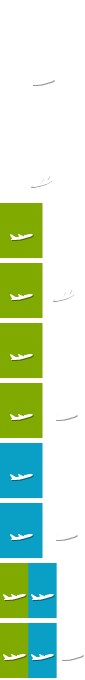
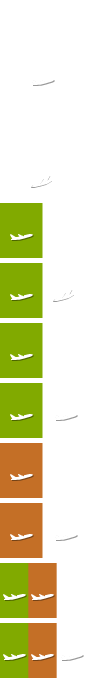
Сложный маршрут в выдаче и календаре

Changed region(s): [[0.0, 0.6485, 0.6824, 1.0]]

diff --git a/public/js/search.js b/public/js/search.js
@@ -4,7 +4,7 @@ init: function() {
 
     /* Режим (по умолчанию туда и обратно) */
     this.mode = 'rt';
-    $('#search-fields .sicon').click(function() {
+    $('#search-fields .segment1 .sicon').click(function() {
         self.toggleMode();
     });
     $('#search-mode li').click(function() {
@@ -170,23 +170,18 @@ init: function() {
 toggleMode: function(mode) {
     var context = $('#search-fields');
     if (mode === undefined) {
-        mode = {rt: 'ow', ow: 'mw', dw: 'rt', tw: 'rw'}[this.mode];
-    }
-    if (mode === 'mw') {
+        mode = {rt: 'ow', ow: 'rt'}[this.mode] || this.mode;
+    } else if (mode === 'mw') {
         mode = this.segments[2].from.val() || this.segments[2].to.val() ? 'tw' : 'dw';
     }
-    if (mode === 'dw' && !this.segments[1].from.val()) {
-        this.segments[1].from.trigger('set', this.segments[0].to.val());
+    if (mode !== this.mode) {
+        context.removeClass(this.mode + 'mode').addClass(mode + 'mode');
+        context.find('tr.segment2').toggleClass('g-none', mode !== 'dw' && mode !== 'tw');
+        context.find('tr.segment3').toggleClass('g-none', mode !== 'tw');
+        context.find('.autocomplete:visible[value=""]').eq(0).focus();
+        this.calendar.toggleMode(mode);
+        this.mode = mode;
     }
-    if (mode === 'tw' && !this.segments[2].from.val()) {
-        this.segments[2].from.trigger('set', this.segments[1].to.val());
-    }
-    context.removeClass(this.mode + 'mode').addClass(mode + 'mode');
-    context.find('tr.segment2').toggleClass('g-none', mode !== 'dw' && mode !== 'tw');
-    context.find('tr.segment3').toggleClass('g-none', mode !== 'tw');
-    context.find('.autocomplete:visible[value=""]').eq(0).focus();
-    this.calendar.toggleMode(mode);
-    this.mode = mode;
 },
 values: function() {
     var s = this.segments;
@@ -321,8 +316,8 @@ validate: function(qkey) {
                 for (var i = 0, im = result.errors.length; i < im; i++) {
                     var err = result.errors[i];
                     if (err.length) {
-                        var mid = err[0][0], fmid = mid + (i + 1) + self.mode;
-                        var mtext = self.messages[fmid] || self.messages[mid] || err[0][1];
+                        var mid = err[0], fmid = mid + (i + 1) + self.mode;
+                        var mtext = self.messages[fmid] || self.messages[mid];
                         self.smessage.find('.ssm-content').html(mtext);
                         break;
                     }
@@ -366,9 +361,9 @@ updateMap: function(segments) {
             lindex[t.code + f.code] = true;
         }
     }
-    for (var i = 0, im = pins.length; i < im; i++) {
+    /*for (var i = 0, im = pins.length; i < im; i++) {
         this.map.AddShape(new VEShape(VEShapeType.Pushpin, pins[i]));
-    }
+    }*/
     for (var i = 0, im = lines.length; i < im; i++) {
         var route = new VEShape(VEShapeType.Polyline, lines[i]);
         route.SetLineWidth(3);

diff --git a/public/css/search/calendar.css b/public/css/search/calendar.css
@@ -111,17 +111,16 @@
     background-position: 0 0;
     background-color: #98b263;
 }
-.calendar .dates li.shover-2, 
-.calendar .dates li.shover-3 {
+.calendar .dates li.shover-2 {
     background-position: 0 0;
     background-color: #b99374;
 }
-.calendar .rtmode li.shover-2 {
-    background-position: 0 -100px;
-}
-.calendar .twmode li.shover-2 {
+.calendar .dates li.shover-3 {
     background-position: 0 0;
     background-color: #5dadc6;
+}
+.calendar .rtmode li.shover-2 {
+    background-position: 0 -100px;
 }
 
 /* Selected date */
@@ -138,13 +137,12 @@
     background-color: #81aa00;
     border-color: #92b336;
 }
-.calendar .dates li.segment-2,
-.calendar .dates li.segment-3 {
+.calendar .dates li.segment-2 {
     background-position: 0 -50px;
     background-color: #C46F26;
     border-color: #c38550;
 }
-.calendar .twmode li.segment-2 {
+.calendar .dates li.segment-3 {
     background-position: 0 -50px;
     background-color: #0aa0c6;
     border-color: #39acca;
@@ -157,18 +155,15 @@
     background-position: 0 -325px;
 }
 .calendar .dates li.segment-2.shover-3 {
-    background-color: #b99374;
+    background-color: #5dadc6;
     background-position: 0 -445px;
 }
 .calendar .dates li.segment-1.segment-2.shover-3 {
-    background-color: #b99374;
+    background-color: #5dadc6;
     background-position: 0 -565px;
 }
 .calendar .rtmode li.segment-1.shover-2 {
     background-position: 0 -205px;
-}
-.calendar .twmode li.segment-1.shover-2 {
-    background-color: #5dadc6;
 }
 .calendar .dates li.segment-1.segment-2,
 .calendar .dates li.segment-2.segment-3,
@@ -177,23 +172,19 @@
     border-bottom: none;
     padding-bottom: 6px;
 }
-.calendar .dates li.segment-2.segment-3 {
-    background-color: #c26c23;
-    background-position: 0 -505px;
-}
 .calendar .dates li.segment-1.segment-2 {
     background-color: #c26c23;
     background-position: 0 -385px;
 }
-.calendar .twmode li.segment-1.segment-2 {
+.calendar .twmode li.segment-2.segment-3 {
     background-color: #0aa0c6;
-    background-position: 0 -385px;
+    background-position: 0 -505px;
 }
 .calendar .rtmode li.segment-1.segment-2 {
     background-position: 0 -265px;
 }
 .calendar .dates li.segment-1.segment-2.segment-3 {
-    background-color: #c26c23;
+    background-color: #0aa0c6;
     background-position: 0 -625px;
 }
 .calendar .selected .dayoff {
@@ -305,11 +296,10 @@
 .calendar .preview .segment-1 {
     background-color: #81aa00;
 }
-.calendar .preview .segment-2,
-.calendar .preview .segment-3 {
+.calendar .preview .segment-2 {
     background-color: #C46F26;    
 }
-.calendar .twmode .preview .segment-2 {
+.calendar .preview .segment-3 {
     background-color: #0aa0c6;    
 }
 .calendar .preview .period {

diff --git a/public/css/offers/results.css b/public/css/offers/results.css
@@ -285,11 +285,10 @@
     cursor: help;
 }
 .offer .segment-2 .trip li.flight {
-    background-position: 0 -25px;
-}
-.offer .segment-3 .trip li.flight,
-.offer .segment-last .trip li.flight {
     background-position: 0 -50px;
+}
+.offer .segment-3 .trip li.flight {
+    background-position: 0 -25px;
 }
 .offer .trip .parts li.layover {
     background-position: 0 -75px;
@@ -338,13 +337,11 @@
 }
 .offer .summary .segment-2 h5,
 .offer .summary .segment-2 .variants a {
-    color: #0aa0c6;
+    color: #C46F26;
 }
-.offer .summary .segment-last h5,
-.offer .summary .segment-last .variants a,
 .offer .summary .segment-3 h5,
 .offer .summary .segment-3 .variants a {
-    color: #C46F26;
+    color: #0aa0c6;
 }
 .offer .summary .variants a:hover {
     color: #ED1192;
@@ -413,11 +410,10 @@
     color: #6F7C26;
 }
 .offer .details .segment-2 .direction {
-    color: #0aa0c6;
-}
-.offer .details .segment-3 .direction,
-.offer .details .segment-last .direction {
     color: #C46F26;
+}
+.offer .details .segment-3 .direction {
+    color: #0aa0c6;
 }
 
 /* Класс */
@@ -459,13 +455,11 @@
 }
 .offer .details .segment-2 .arv .time h5,
 .offer .details .segment-2 .dpt .time h5 {
-    color: #0aa0c6;
+    color: #C46F26;
 }
 .offer .details .segment-3 .arv .time h5,
-.offer .details .segment-3 .dpt .time h5,
-.offer .details .segment-last .arv .time h5,
-.offer .details .segment-last .dpt .time h5 {
-    color: #C46F26;
+.offer .details .segment-3 .dpt .time h5 {
+    color: #0aa0c6;
 }
     
 /* Описание рейса */

diff --git a/public/js/booking/form.js b/public/js/booking/form.js
@@ -125,10 +125,10 @@ show: function(variant) {
         event.preventDefault();
         self.hide();
     };
-    /*var link = $('<a class="stop-booking" href="#">Вернуться к выбору вариантов</a>').click(this.selfhide).prependTo(this.offer);
+    var link = $('<a class="stop-booking" href="#">Вернуться к выбору вариантов</a>').click(this.selfhide).prependTo(this.offer);
     if (this.offer.parent('#offers-matrix').length) {
         link.css('top', this.offer.find('.offer-prices').height());
-    }*/
+    }
     this.offer.addClass('active-booking');
 },
 hide: function() {

diff --git a/public/js/offers.js b/public/js/offers.js
@@ -618,7 +618,7 @@ makeRecommendation: function(variant, title) {
     this.showVariant(offer.children().eq(el.prevAll().length));
     if (title.search(/выгодный/i) != -1) {
         var cost = offer.find('td.cost dl'), ctext = cost.find('dd');
-        ctext.html(ctext.html() + ' за всех, включая налоги и сборы');
+        ctext.html(ctext.html() + '<span class="cost-tip"> за всех, включая налоги и сборы</span>');
         cost.prepend('<dd>Всего </dd>');
     }
     return $('<div><h3 class="offers-title">' + title + '</h3></div>').append(offer);

diff --git a/public/css/offers/booking.css b/public/css/offers/booking.css
@@ -17,6 +17,9 @@
     text-decoration: none;
     cursor: default;
 }
+.active-booking .cost-tip {
+	display: none;
+}
 
 .l-crop .offer-variant th.book .a-button,
 .l-crop .offer-variant tr.book .a-button,
@@ -109,7 +112,7 @@
 .offer a.stop-booking {
     position: absolute;
     right: 15px;
-    margin-top: 20px;
+    margin-top: 15px;
     font-size: 12px;
     font-weight: normal;
     color: #333;

diff --git a/public/css/search/fields.css b/public/css/search/fields.css
@@ -103,11 +103,10 @@
 #search-fields .segment1 .sicon {
     background-position: 0 -30px;
 }
-#search-fields .segment2 .sicon,
-#search-fields .segment3 .sicon {
+#search-fields .segment2 .sicon {
     background-position: 0 -60px;
 }
-#search-fields.twmode .segment2 .sicon {
+#search-fields .segment3 .sicon {
     background-position: 0 -90px;
 }
 #search-fields.rtmode .segment1 .sicon {

diff --git a/public/css/search/form.css b/public/css/search/form.css
@@ -11,14 +11,14 @@
 }
 #search-define th {
     width: 90px;
-    padding: 15px 0 12px 15px;
+    padding: 13px 0 14px 15px;
     font-weight: bold;
     text-align: left;
     vertical-align: top;
     color: #fff;
 }
 #search-define td {
-    padding: 15px 0 12px 10px;
+    padding: 13px 0 14px 10px;
     vertical-align: top;
     color: #ccc;
 }

diff --git a/app/controllers/pricer_controller.rb b/app/controllers/pricer_controller.rb
@@ -61,7 +61,7 @@ class PricerController < ApplicationController
       end
       render :json => {
         :valid => @search.valid?,
-        :errors => @search.form_segments.every.errors,
+        :errors => @search.form_segments.map{|fs| fs.errors.keys},
         :human => @search.human,
         :search => @search,
         :complex_to_parse_results => @search.complex_to_parse_results,
